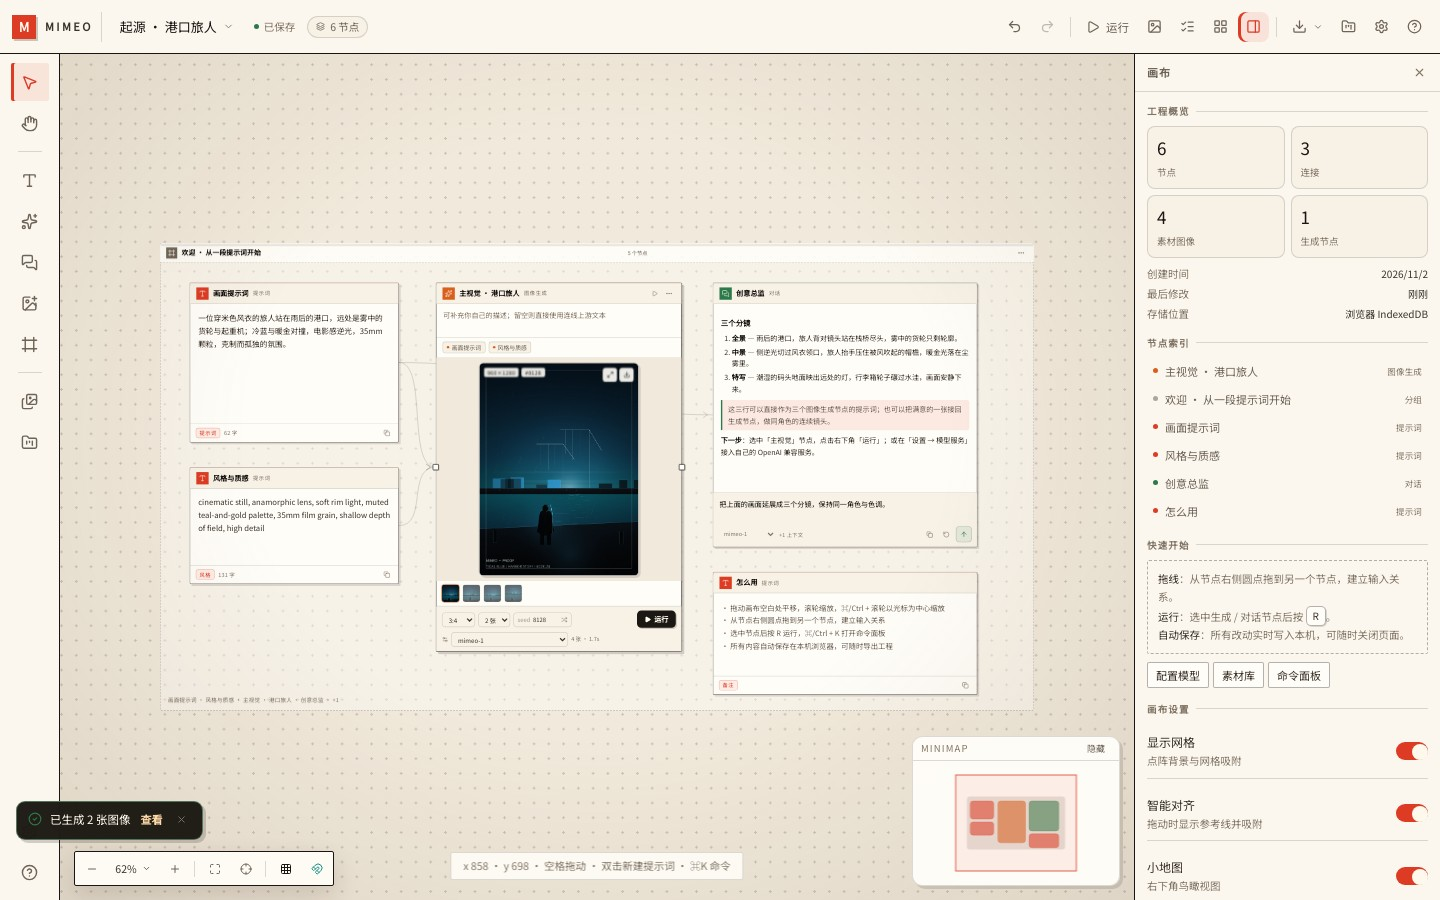
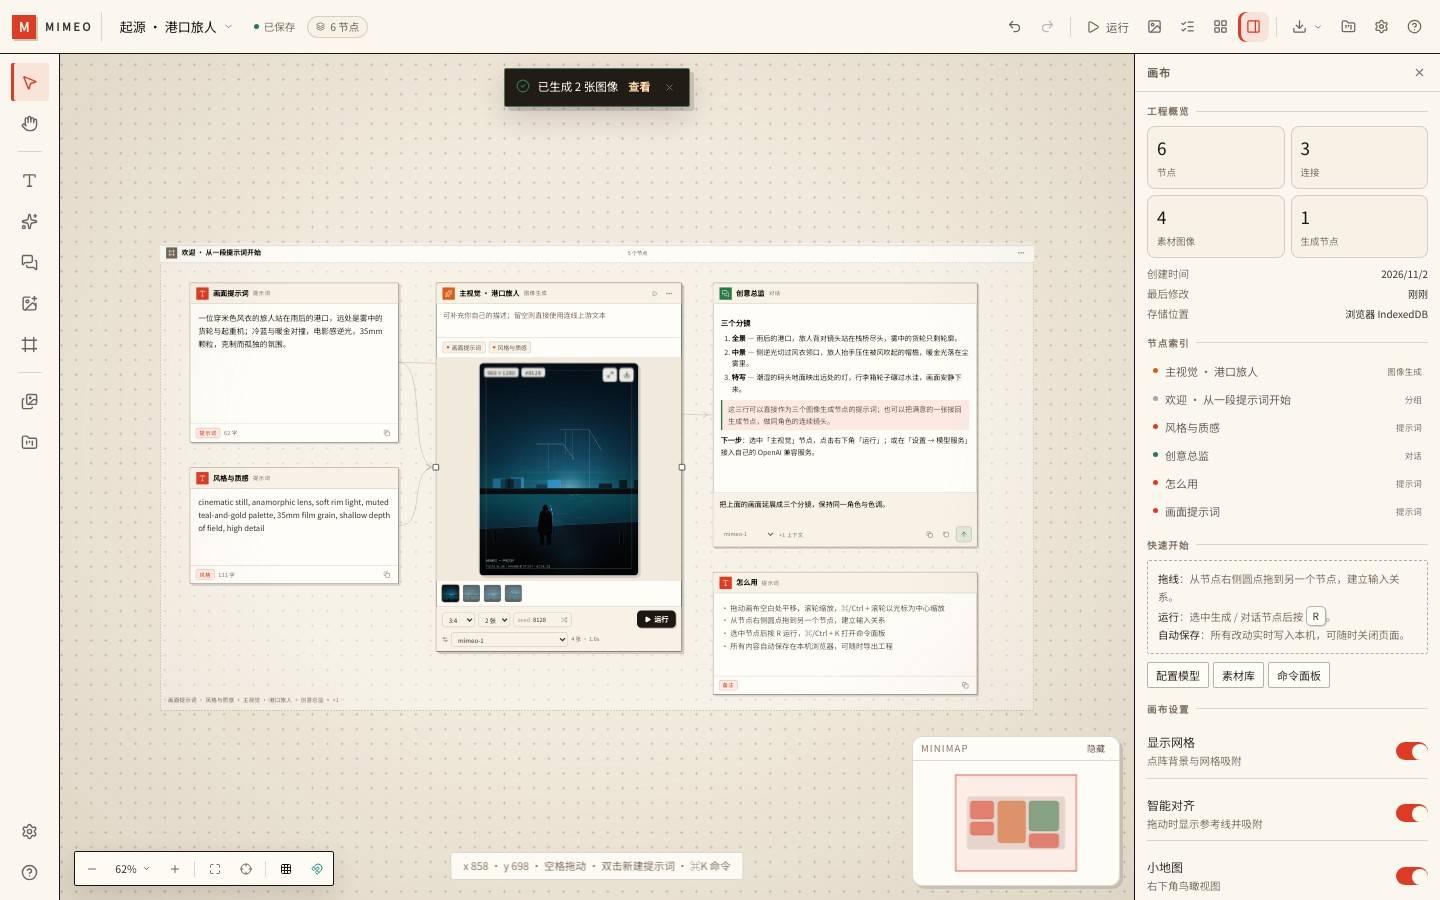
style(mimeo): center toasts above the canvas instead of the corner
Move transient generation and save notifications to the top-center of the canvas, clear of the zoom HUD and selection toolbar, and keep them centered as the inspector opens and closes.

Changed region(s): [[0.0, 0.8711, 0.1562, 0.9644], [0.3438, 0.0622, 0.5, 0.1244], [0.8125, 0.4667, 0.8438, 0.5911]]

diff --git a/mimeo/src/styles/panels.css b/mimeo/src/styles/panels.css
@@ -1070,14 +1070,21 @@
 
 .toasts {
   position: fixed;
-  left: 16px;
-  bottom: 60px;
+  top: calc(var(--topbar-h) + 14px);
+  left: 50%;
+  transform: translateX(-50%);
   z-index: 500;
   display: flex;
   flex-direction: column;
+  align-items: center;
   gap: 7px;
-  max-width: 380px;
+  width: min(400px, calc(100vw - 32px));
   pointer-events: none;
+}
+
+/* 让提示浮层居中于画布，而不是整个窗口（右侧检查器宽 306px） */
+.app.with-inspector .toasts {
+  left: calc(50% - 123px);
 }
 
 .toast {
@@ -1085,11 +1092,12 @@
   display: flex;
   align-items: flex-start;
   gap: 8px;
+  max-width: 100%;
   padding: 9px 11px;
-  border-radius: 9px;
-  border: 1px solid var(--border-strong);
-  background: rgba(26, 21, 16, 0.96);
-  box-shadow: 3px 3px 0 rgba(26, 21, 16, 0.18);
+  border-radius: var(--radius-sm);
+  border: 1px solid rgba(255, 248, 236, 0.2);
+  background: rgba(26, 21, 16, 0.97);
+  box-shadow: 4px 4px 0 rgba(26, 21, 16, 0.14), 0 10px 28px rgba(26, 21, 16, 0.16);
   font-size: 11.5px;
   color: #fff8ec;
   animation: toast-in 0.18s ease;
@@ -1099,7 +1107,7 @@
 @keyframes toast-in {
   from {
     opacity: 0;
-    transform: translateY(6px);
+    transform: translateY(-6px);
   }
 }
 
@@ -1920,6 +1928,9 @@
   }
   .sheet-title p {
     white-space: normal;
+  }
+  .app.with-inspector .toasts {
+    left: 50%;
   }
   .lightbox-side {
     display: none;

diff --git a/mimeo/src/ui/App.tsx b/mimeo/src/ui/App.tsx
@@ -407,7 +407,7 @@ function EditorShell() {
 
 
   return (
-    <div className="app">
+    <div className={`app${inspectorOpen ? ' with-inspector' : ''}`}>
       <TopBar inspectorOpen={inspectorOpen} onToggleInspector={toggleInspector} />
       <div className="workspace">
         <LeftRail tool={tool} setTool={setTool} />
